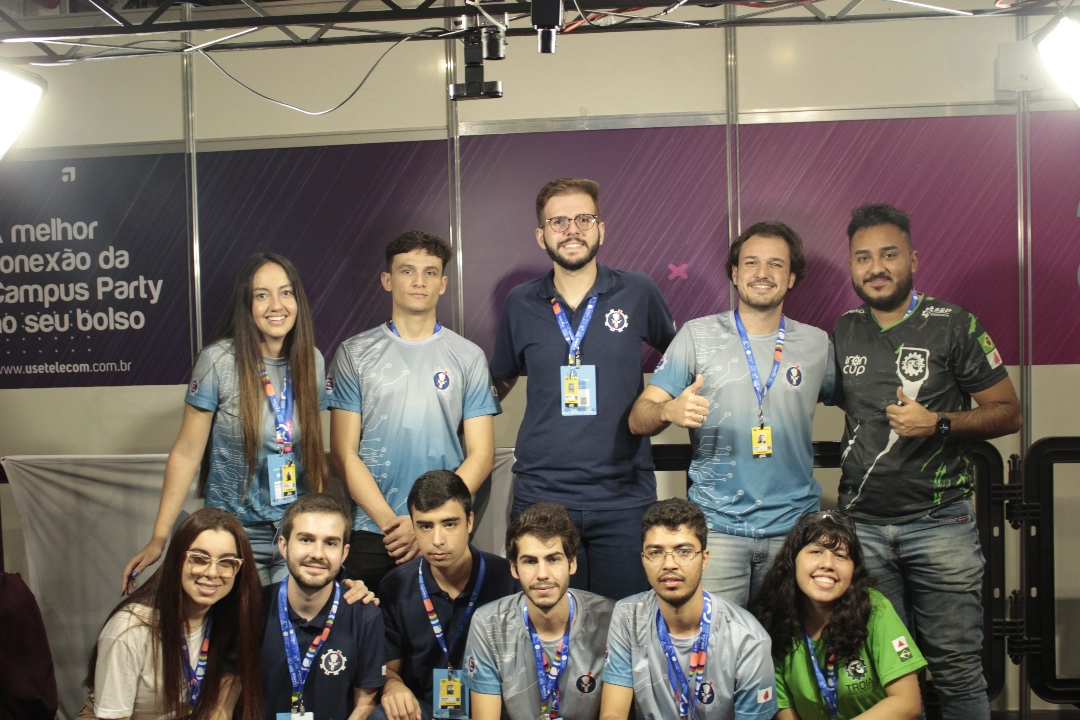
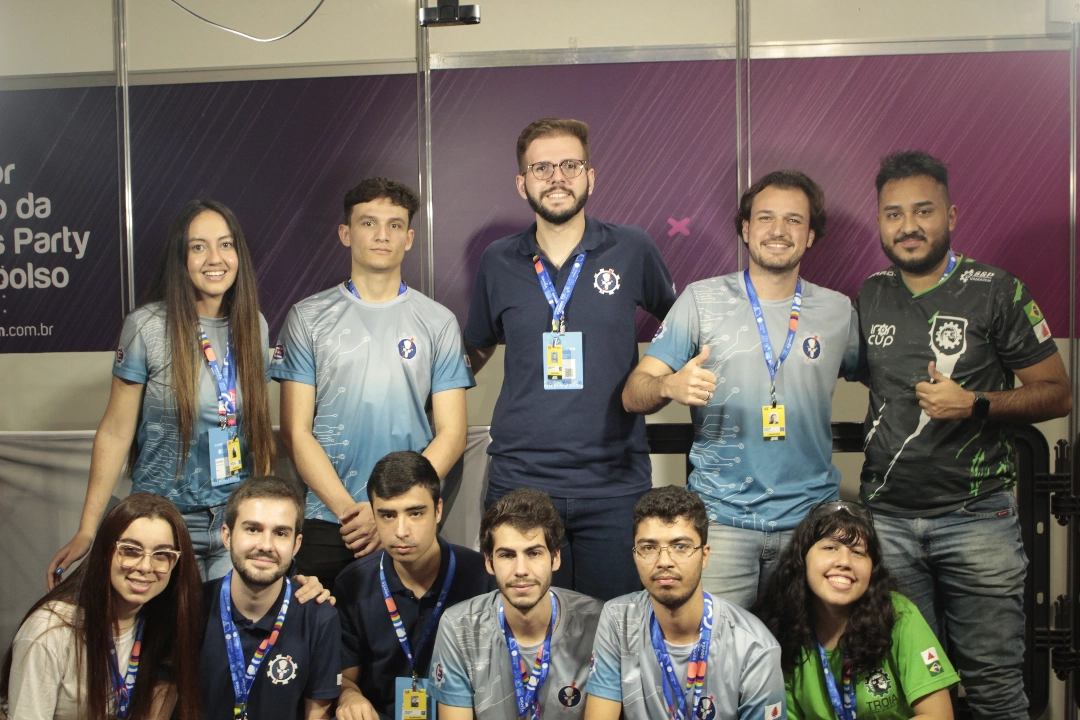
Remoção de imagem

diff --git a/js/gallery.js b/js/gallery.js
@@ -3,8 +3,8 @@
 import PhotoSwipeLightbox from 'https://cdn.jsdelivr.net/npm/photoswipe@5.3.0/dist/photoswipe-lightbox.esm.js';
 
 const galleryImages = [];
-
-for (let i = 1; i <= 11; i++) {
+const imageCount = 10;
+for (let i = 1; i <= imageCount ; i++) {
     galleryImages.push({
         src: `images/gallery/gallery_${i}.webp`,
         width: 1080,
